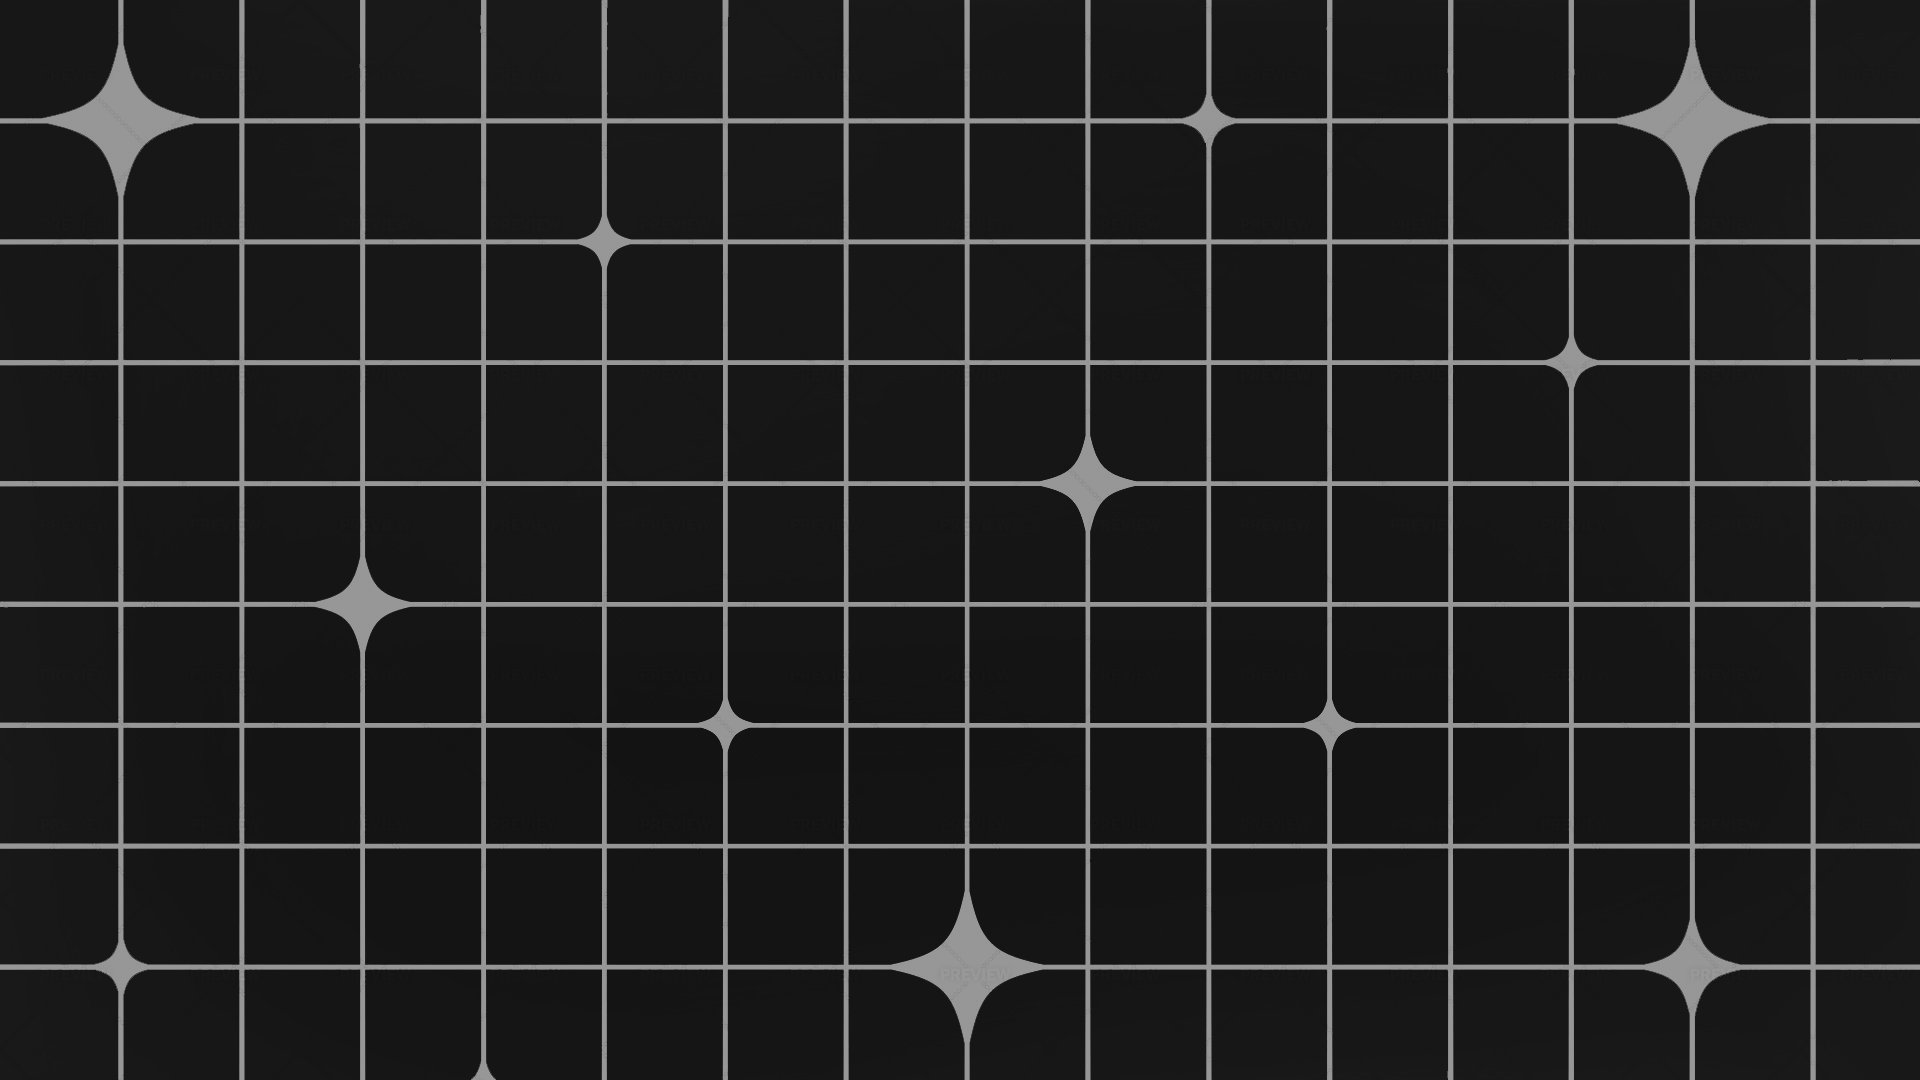
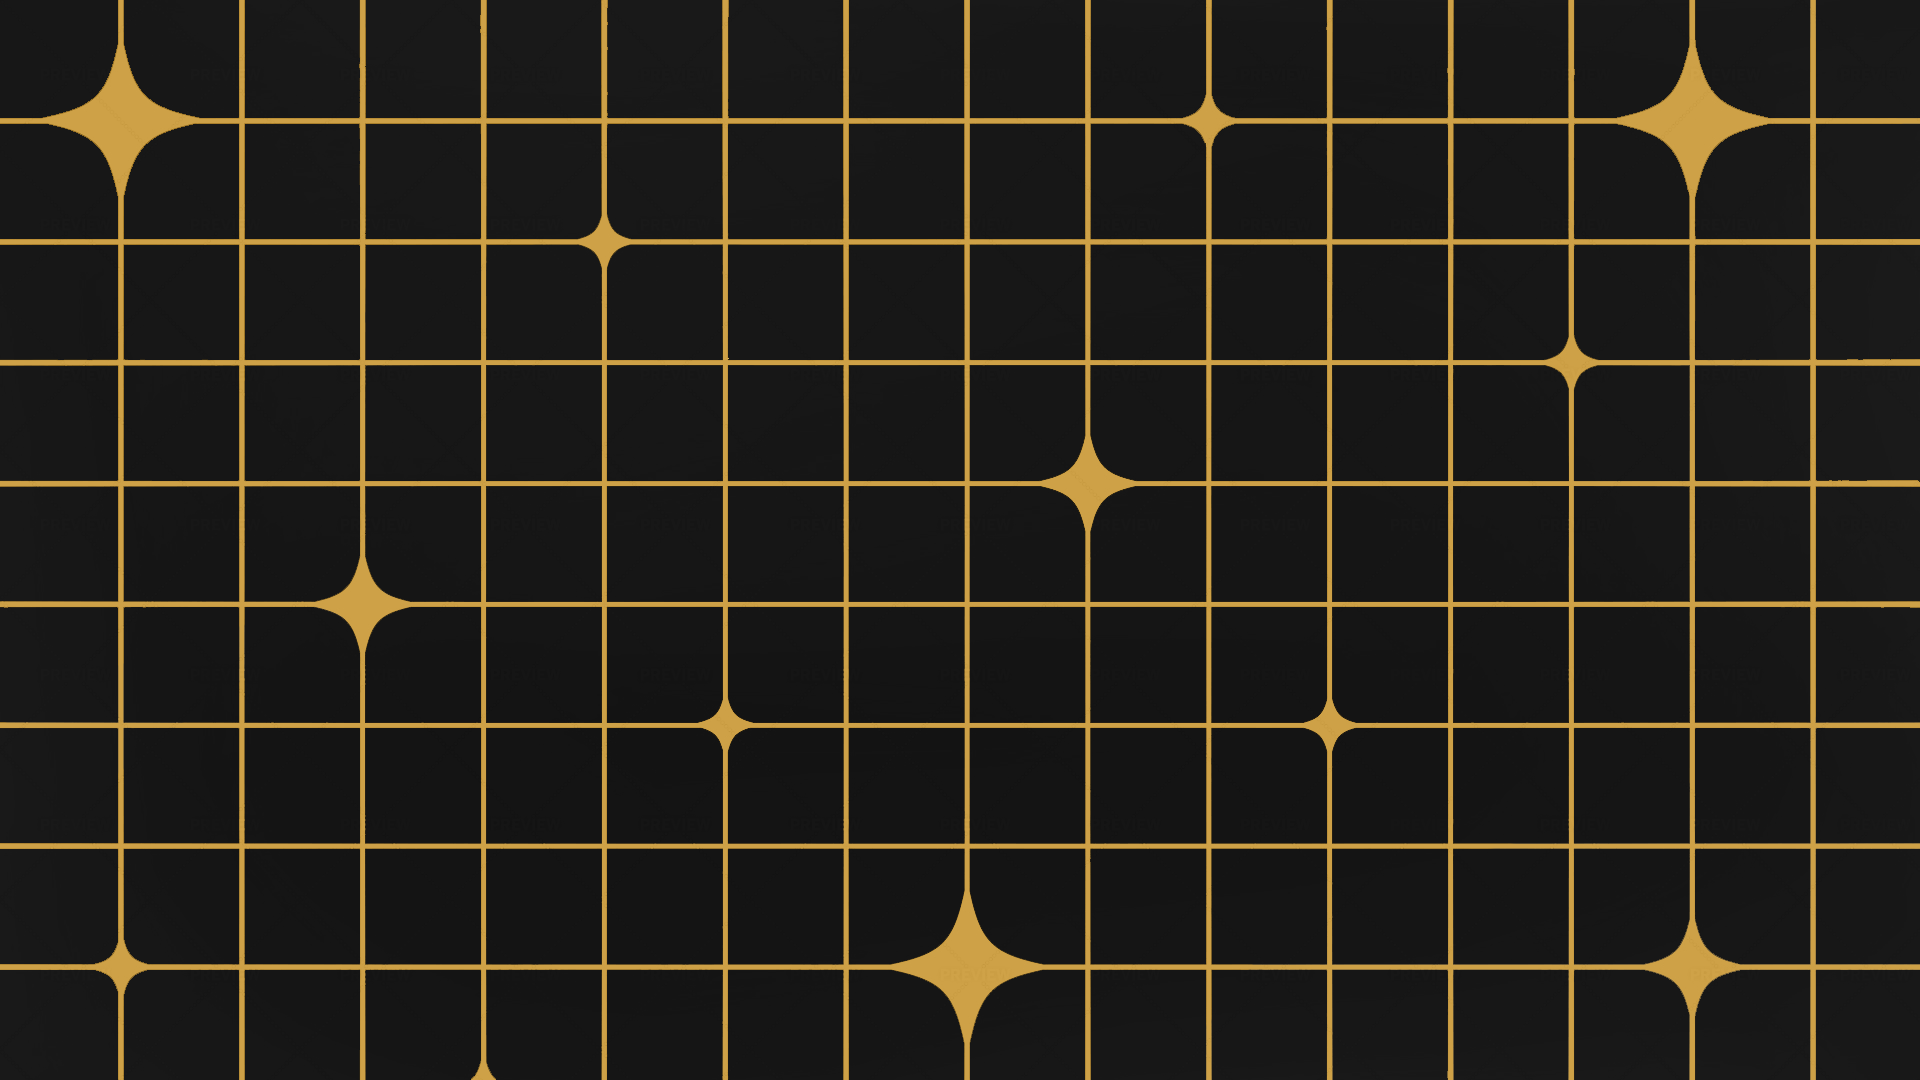
a little changes

diff --git a/css/style.css b/css/style.css
@@ -137,10 +137,9 @@ header {
 
 }
 .cards > .left-top, .cards > .left-bottom, .cards > .right-top, .cards > .right-bottom {
-    height: 225px;
+    height: 250px;
     width: 150px;
     border-radius: 15px;
-    border: 2px solid var(--border-color);
     background-color: var(--back-color);
     box-shadow: inset 0 0 20px var(--white-color), 0 0 10px var(--black-color);
     backdrop-filter: blur(4px);
@@ -153,37 +152,54 @@ header {
     right: 170px;
     overflow: hidden;
     background-color: var(--black-color);
-    box-shadow: inset 0 -5px 10px var(--blue-color), inset 0 0px 5px var(--accentless-color);
+    box-shadow: 0 0 10px var(--orange-color), inset 0 5px 10px var(--orange-color), inset 0 -5px 10px var(--orange-color);
     transition: transform 0.2s ease;
+    background-image: url('../resource/card/background-card.png');
+    background-size: cover;
+    z-index: 2;
+    border: 5px solid var(--orange-color);
+
 }
 
 .cards > .left-top:hover {
     transform: scale(1.1);
     rotate: -10.5deg;
-    box-shadow: inset 0 -5px 10px var(--blue-color), 0 0 20px var(--accentless-color);
+    box-shadow: 0 0 40px var(--orange-color), inset 0 5px 10px var(--orange-color), inset 0 -5px 10px var(--orange-color);
 }
 
 .back-card {
+    position: relative;
+    top: 25px;
     display: flex;
     flex-wrap: wrap;
     border-radius: 15px;
     margin: 10px;
-    width: 130px;
+    width: 100%;
     height: 200px;
-    background-image: url('../resource/card/background-card.png');
-    background-size: cover;
-    box-shadow: inset 0 -5px 10px var(--black-color);
+    z-index: 2;
+    box-shadow: 0 0 20px var(--black-color);
     overflow: hidden;
 }
 
+.left-top .description {
+    z-index: 3;
+    font-weight: 700;
+    font-family: monospace;
+    text-align: center;
+    font-size: 25px;
+    justify-content: center;
+    width: 100%;
+    box-shadow: 0 -7px 20px var(--orange-color);
+    position: absolute;
+    background-color: var(--orange-color);
+} 
+
 .rabbit-card{
-    bottom: 0;
-    width: 130%;
+    position: relative;
+    right: 50px;
+    width: 220px;
 }
 
-.card-bio-thk {
-    width: 140px;
-}
 
 .cards > .left-bottom {
     position: relative;

diff --git a/index.html b/index.html
@@ -40,9 +40,9 @@
                     <div class="left-top" title="Ownsite">
                         <a href="https://vladthk.github.io/">
                             <div class="back-card">
-                                <img class="card-bio-thk"src="resource/card/bio.png" alt="">
                                 <img class="rabbit-card" src="resource/card/gifk.gif" alt="">
                             </div>
+                            <div class="description">OWNSITE</div>
                         </a>
                     </div>
                     <div class="right-top"></div>
@@ -88,3 +88,6 @@
     </div>
 </body>
 </html>
+
+
+<!-- OKEY ))))) -->

diff --git a/css/root.css b/css/root.css
@@ -10,4 +10,5 @@
     --blackback-color: #0000005b;
     --purple-color: #7800affe;
     --blue-color: #0052affe;
+    --orange-color: #ff7b00fe;
 }
